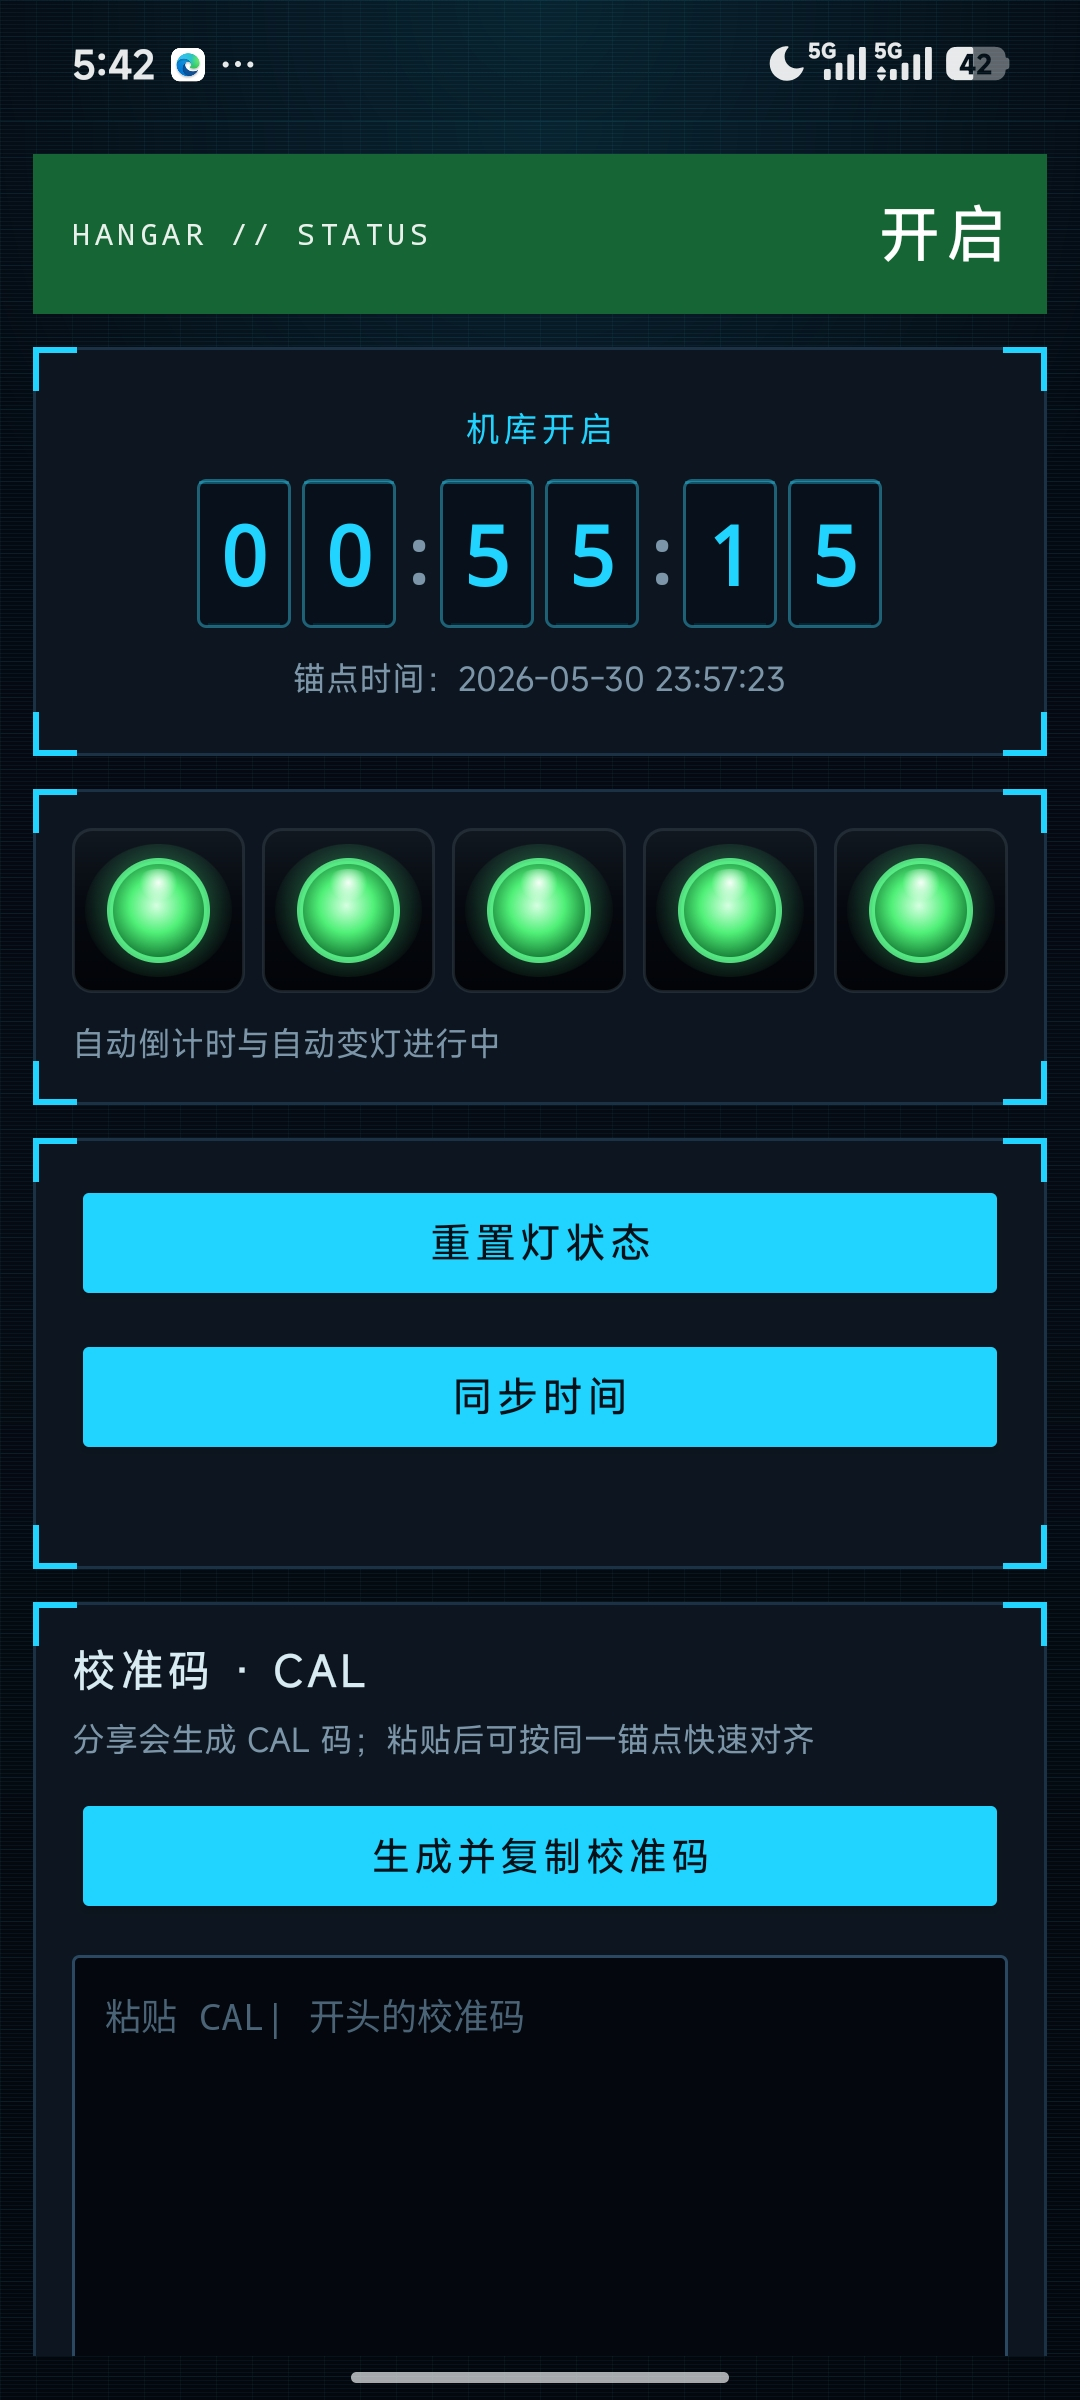
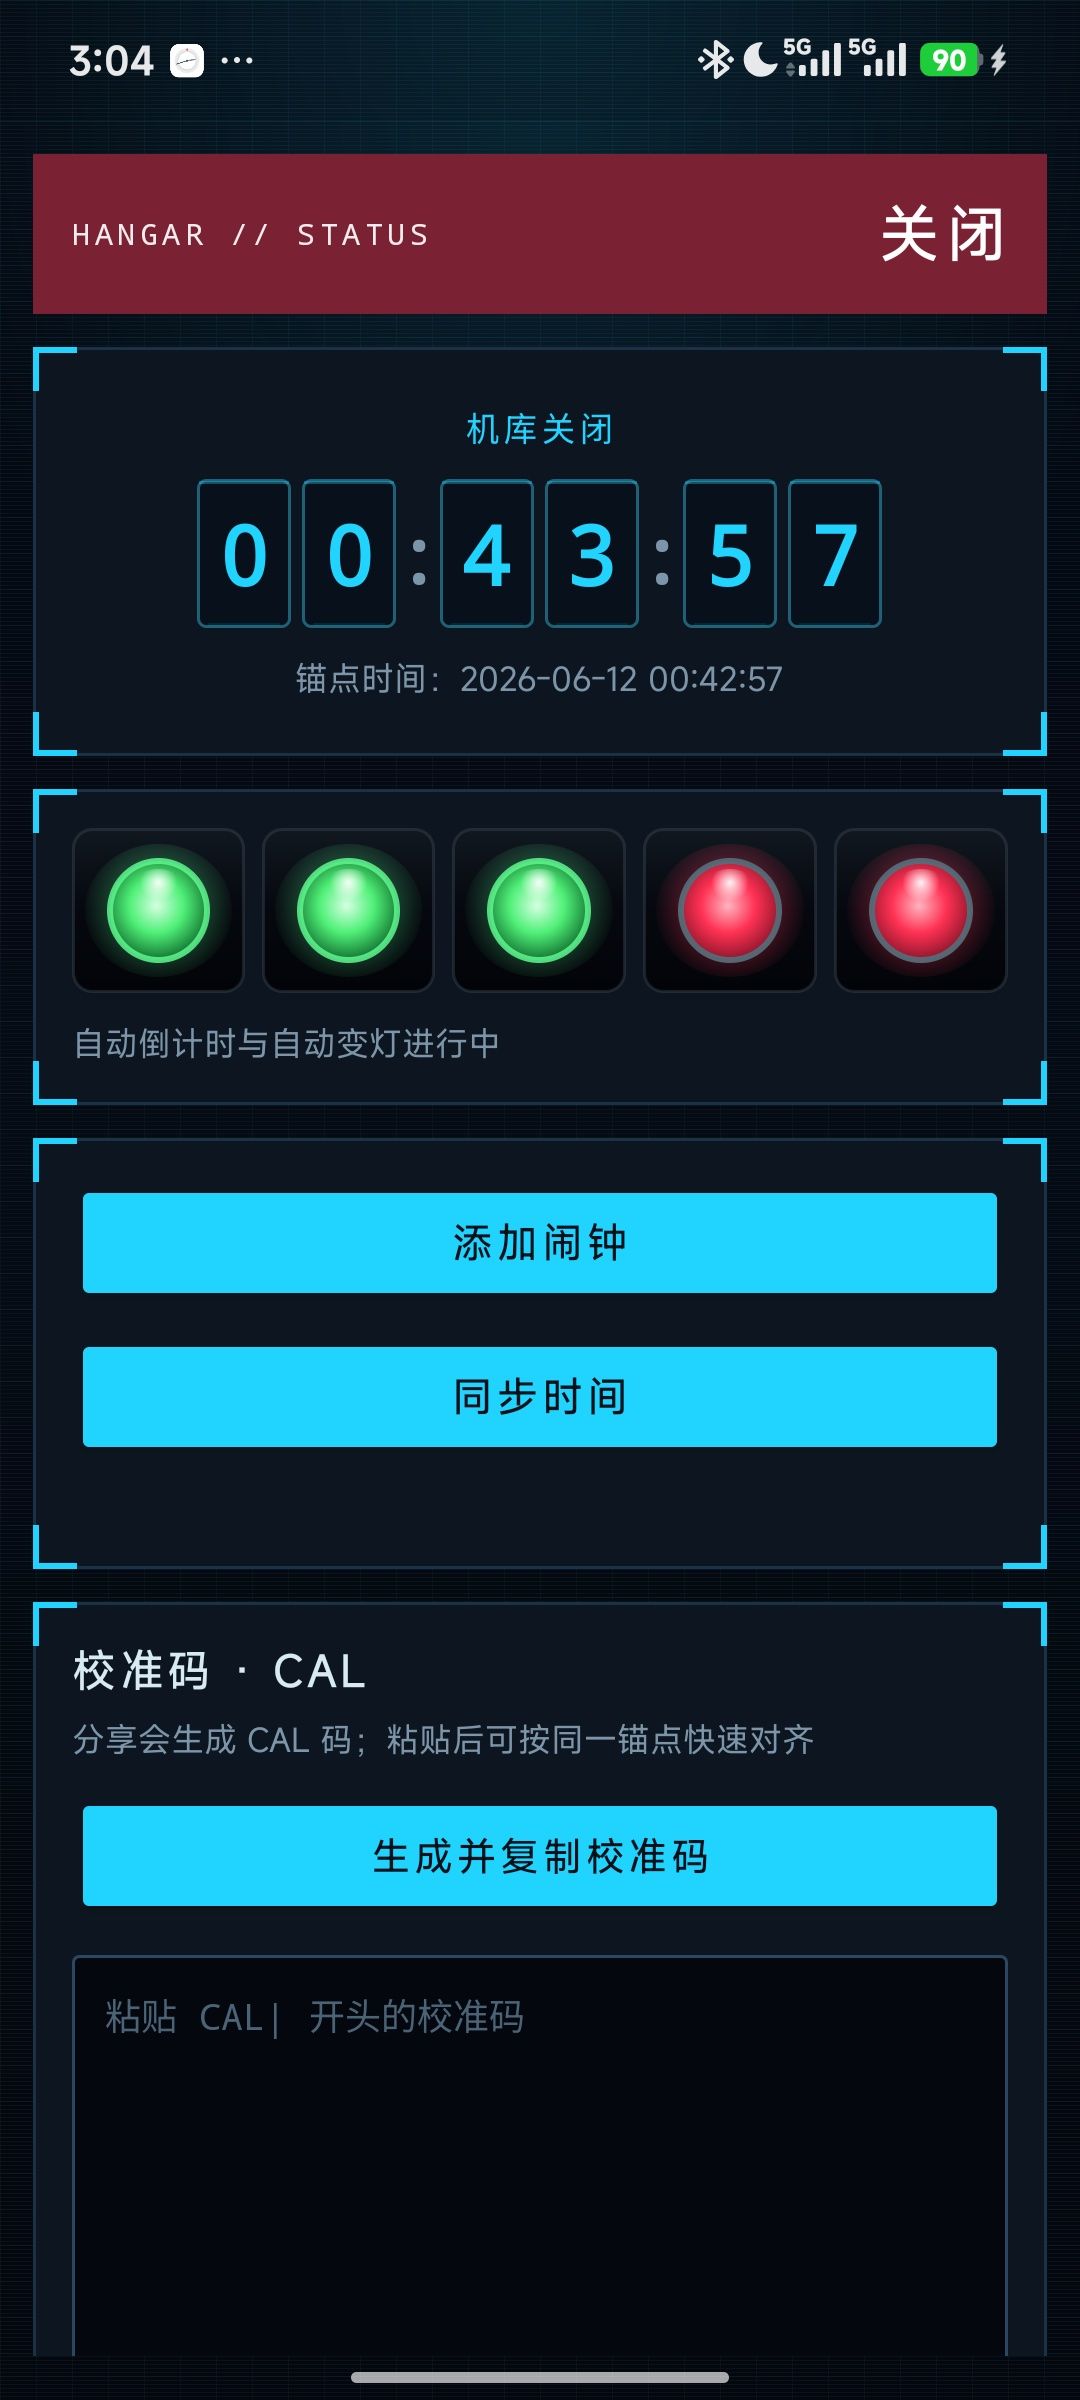
[doc] README补充SCM市场、资讯、机库闹钟功能说明与截图

diff --git a/README.md b/README.md
@@ -15,6 +15,12 @@ QQ群：330941212
     <td align="center"><img src="screenshots/screenshot_query.jpg" width="200"/><br/>查询</td>
     <td align="center"><img src="screenshots/screenshot_profile.jpg" width="200"/><br/>个人信息</td>
   </tr>
+  <tr>
+    <td align="center"><img src="screenshots/screenshot_market.jpg" width="200"/><br/>SCM 市场</td>
+    <td align="center"><img src="screenshots/screenshot_market_detail.jpg" width="200"/><br/>订单详情</td>
+    <td align="center"><img src="screenshots/screenshot_news.jpg" width="200"/><br/>资讯</td>
+    <td></td>
+  </tr>
 </table>
 
 > **当前数据对应游戏版本：Alpha 4.8.1**
@@ -23,13 +29,15 @@ QQ群：330941212
 
 ## 功能模块
 
-底部三栏导航，进入默认在「工具」页：
+底部四栏导航，进入默认在「工具」页：
 
 | Tab | 模块 | 状态 | 说明 |
 |---|---|---|---|
 | **工具** | BUG 分享/解决 | ONLINE | PC 常见问题与解决方案，支持硬件标签筛选 |
-| **工具** | 灯状态计时辅助 | ONLINE | 机库灯状态确认、倒计时、多端校准（接 exectimer.com） |
+| **工具** | 灯状态计时辅助 | ONLINE | 机库灯状态确认、倒计时、多端校准（接 exectimer.com），支持按下次开门时间提前 N 分钟一键添加系统闹钟 |
 | **工具** | 每日 WB | ONLINE | 官网 Warbond 限时折扣船列表，同步最新 WB 价 / 原价 / 购买链接 |
+| **资讯** | 资讯 | ONLINE | citizenwiki 新闻接口直连，资讯列表 + 关键词搜索，点击跳转原文 |
+| **查询** | SCM 市场 | MARKET | flowcld SCM 出售/求购订单浏览与商品搜索；详情含 aUEC 价格、卖家在线状态、交易日/时段/地点（维基链接）、捆绑商品明细 |
 | **查询** | 蓝图图鉴 | LOCAL | 配方查询、品质计算器、任务获取路径 |
 | **查询** | 任务搜索 | 4.8.1 | 按任务名/类型/奖励物品关键词搜索全部蓝图任务 |
 | **查询** | 飞船查找 | BETA | 飞船槽位配装 + 电力面板计算 |
@@ -79,6 +87,15 @@ app/src/main/
 │   │   ├── WbFragment.kt             # 每日 WB 列表页
 │   │   ├── WbRepository.kt           # 本地缓存 + 远程同步
 │   │   └── WbRemoteClient.kt         # 手机端匿名抓取 RSI 官网 WB 数据
+│   ├── market/
+│   │   ├── ScmMarketClient.kt        # flowcld SCM 市场 API 客户端
+│   │   ├── MarketOrder.kt            # 订单/商品数据模型
+│   │   ├── MarketFragment.kt         # 市场列表页（出售/求购/搜索）
+│   │   └── MarketDetailFragment.kt   # 订单详情页
+│   ├── news/
+│   │   ├── NewsFragment.kt           # 资讯列表页（含关键词搜索）
+│   │   └── NewsRepository.kt         # citizenwiki 新闻接口
+│   ├── ImageLoader.kt           # 通用图片加载（内存缓存，WB/资讯/市场共用）
 │   ├── RsiInventoryClient.kt    # RSI 库存 HTTP 客户端
 │   ├── RsiCookieStore.kt        # RSI Session Cookie 管理
 │   ├── RsiWebViewSetup.kt       # WebView 登录桥